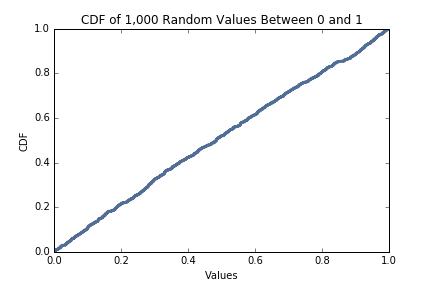
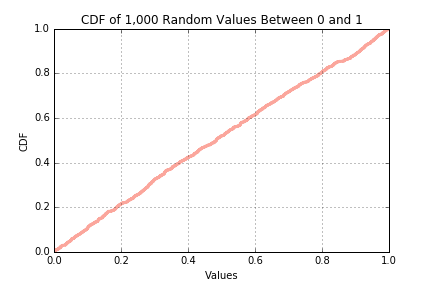
update rand-dist files

diff --git a/statistics/4-2-random_dist.md b/statistics/4-2-random_dist.md
@@ -1,6 +1,6 @@
 [Think Stats Chapter 4 Exercise 2](http://greenteapress.com/thinkstats2/html/thinkstats2005.html#toc41) (a random distribution)
 
-> > ####The numbers generated by random.random are supposed to be uniform between 0 and 1; that is, every value in the range should have the same probability.  
+> > ####The numbers generated by random.random are supposed to be uniform between 0 and 1; that is, every value in the range should have the same probability.
 > > Task: Generate 1000 numbers from random.random and plot their PMF and CDF. Is the distribution uniform?
 
 ```{python}
@@ -32,7 +32,7 @@ rand_pmf = thinkstats2.Pmf(X.randN, label='1000 random values')
 import thinkplot
 import matplotlib.pyplot as plt
 
-thinkplot.Pmf(rand_pmf)
+thinkplot.Pmf(rand_pmf, color='cornflowerblue')
 plt.xlabel('Values')
 plt.ylabel('PMF')
 plt.title('PMF of 1,000 Random Values Between 0 and 1')
@@ -40,7 +40,7 @@ plt.savefig(fpath+'figs/ch4ex2_pmf.png')
 plt.show()
 
 ```
-<img src="https://github.com/hengrumay/dsp/blob/master/statistics/figs/ch4ex2_pmf.png?raw=true">  
+<img src="https://github.com/hengrumay/dsp/blob/master/statistics/figs/ch4ex2_pmf.png?raw=true">
 
 
 > > The cumulative distribution function (CDF) maps from a value to its percentile rank. CDFs are especially useful for comparing distributions.
@@ -53,7 +53,8 @@ rand_cdf = thinkstats2.Cdf(X.randN, label='1000 random values')
 #import thinkplot
 #import matplotlib.pyplot as plt
 
-thinkplot.Cdf(rand_cdf)
+thinkplot.Cdf(rand_cdf, color='salmon')
+plt.grid(True)
 plt.ylabel('CDF')
 plt.xlabel('Values')
 plt.title('CDF of 1,000 Random Values Between 0 and 1')
@@ -62,7 +63,7 @@ plt.show()
 
 ```
 
-<img src="https://github.com/hengrumay/dsp/blob/master/statistics/figs/ch4ex2_cdf.png?raw=true">  
+<img src="https://github.com/hengrumay/dsp/blob/master/statistics/figs/ch4ex2_cdf.png?raw=true">
 
 > >The CDF approximates a straight line, reflecting that the distribution of randomly generated numbers is uniform.
 
